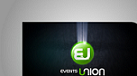
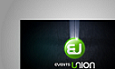
user Sign up

Changed region(s): [[0.4174, 0.2609, 1.0, 1.0], [0.1565, 0.2899, 0.1826, 1.0]]

diff --git a/app/assets/stylesheets/custom.css.scss b/app/assets/stylesheets/custom.css.scss
@@ -77,9 +77,9 @@ h1, h2, h3, h4, h5, h6 {
 }
 
 h1 {
-  font-size: 3em;
+  font-size: 2.6em;
   letter-spacing: -2px;
-  margin-bottom: 30px;
+  margin-bottom: 15px;
   text-align: center;
 }
 
@@ -100,12 +100,12 @@ p {
 
 #logo {
   float: left;
-  margin-right: 5px;
+  margin-right: 2px;
   font-size: 1.9em;
   color: #fff;
   text-transform: uppercase;
   letter-spacing: -1px;
-  padding-top: 9px;
+  padding-top: 4px;
   font-weight: bold;
   line-height: 1;
 }
@@ -117,7 +117,7 @@ p {
 /* footer */
 
 footer {
-  margin-top: 45px;
+  margin-top: 250px;
   padding-top: 5px;
   border-top: 1px solid #eaeaea;
   color: #999;
@@ -144,4 +144,60 @@ footer ul li {
   float: left;
   margin-left: 10px;
 }
+
+/* sidebar */
+
+aside {
+  section {
+    padding: 10px 0;
+    border-top: 1px solid $grayLighter;
+    &:first-child {
+      border: 0;
+      padding-top: 0;
+    }
+    span {
+      display: block;
+      margin-bottom: 3px;
+      line-height: 1;
+    }
+    h1 {
+      font-size: 1.9em;
+      text-align: left;
+      letter-spacing: -1px;
+      margin-bottom: 3px;
+      margin-top: 12px;
+      font-style: italic;
+      font-family: Brush Script MT, cursive;
+    }
+  }
+}
+
+.gravatar {
+  float: left;
+  margin-right: 15px;
+}
+
+/* forms */
+
+input, textarea, select, .uneditable-input {
+  border: 1px solid #bbb;
+  width: 100%;
+  padding: 10px;
+  height: auto;
+  margin-bottom: 15px;
+}
+
+#error_explanation {
+  color: #f00;
+  ul {
+    list-style: none;
+    margin: 0 0 18px 0;
+  }
+}
+
+.field_with_errors {
+  @extend .control-group;
+  @extend .error;
+  }
+
 

diff --git a/spec/requests/user_pages_spec.rb b/spec/requests/user_pages_spec.rb
@@ -10,4 +10,41 @@ describe "User pages" do
     it { should have_selector('h1',    text: 'Sign up') }
     it { should have_selector('title', text: full_title('Sign up')) }
   end
+  
+  
+  describe "profile page" do
+  let(:user) { FactoryGirl.create(:user) }
+  before { visit user_path(user) }
+
+  it { should have_selector('h1',    text: user.name) }
+  it { should have_selector('title', text: user.name) }
+  end
+  
+  describe "signup" do
+
+    before { visit signup_path }
+
+    let(:submit) { "Create my account" }
+
+    describe "with invalid information" do
+      it "should not create a user" do
+        expect { click_button submit }.not_to change(User, :count)
+      end
+    end
+
+    describe "with valid information" do
+      before do
+        fill_in "Name",         with: "Example User"
+        fill_in "Email",        with: "user@example.com"
+        fill_in "Password",     with: "foobar"
+        fill_in "Confirmation", with: "foobar"
+      end
+
+      it "should create a user" do
+        expect { click_button submit }.to change(User, :count).by(1)
+      end
+    end
+  end
+
+
 end

diff --git a/app/models/user.rb b/app/models/user.rb
@@ -14,11 +14,11 @@ class User < ActiveRecord::Base
   has_secure_password
 
   
-  before_save {|user| user.email = email.downcase }
+  before_save {self.email.downcase! }
   
   validates :name, presence:true, length: {maximum: 50}
   VALID_EMAIL_REGEX = /\A[\w+\-.]+@[a-z\d\-.]+\.[a-z]+\z/i
-  validates :email, presence:true, format: { with: VALID_EMAIL_REGEX }, uniqueness: {case_sensitive:false}
+  validates :email, presence:true, format: { with: VALID_EMAIL_REGEX }, uniqueness: {case_sensitive: false}
   validates :password, presence: true, length: {minimum: 6}
   validates :password_confirmation, presence: true
 end

diff --git a/app/controllers/users_controller.rb b/app/controllers/users_controller.rb
@@ -1,4 +1,19 @@
 class UsersController < ApplicationController
+  def show
+    @user = User.find(params[:id])
+  end
+  
   def new
+    @user = User.new
+  end
+  
+  def create
+    @user = User.new(params[:user])
+    if @user.save
+      flash[:success] = "Welcome to the Events Union"
+      redirect_to @user
+    else
+      render 'new'
+    end
   end
 end

diff --git a/app/helpers/users_helper.rb b/app/helpers/users_helper.rb
@@ -1,2 +1,9 @@
 module UsersHelper
+  # Returns the Gravatar (http://gravatar.com/) for the given user.
+  def gravatar_for(user)
+    gravatar_id = Digest::MD5::hexdigest(user.email.downcase)
+    gravatar_url = "https://secure.gravatar.com/avatar/#{gravatar_id}"
+    image_tag(gravatar_url, alt: user.name, class: "gravatar")
+  end
+
 end

diff --git a/config/routes.rb b/config/routes.rb
@@ -1,9 +1,9 @@
 EventsUnion::Application.routes.draw do
-  get "users/new"
+  resources :users
+  match "/signup", to: "users#new"
+  
   root to: "pages#home"
   match "/home", to: "pages#home"
-  match "/signup", to: "users#new"
-
   match "/aboutus", to: "pages#aboutus"
   match "/help", to: "pages#help"
   
